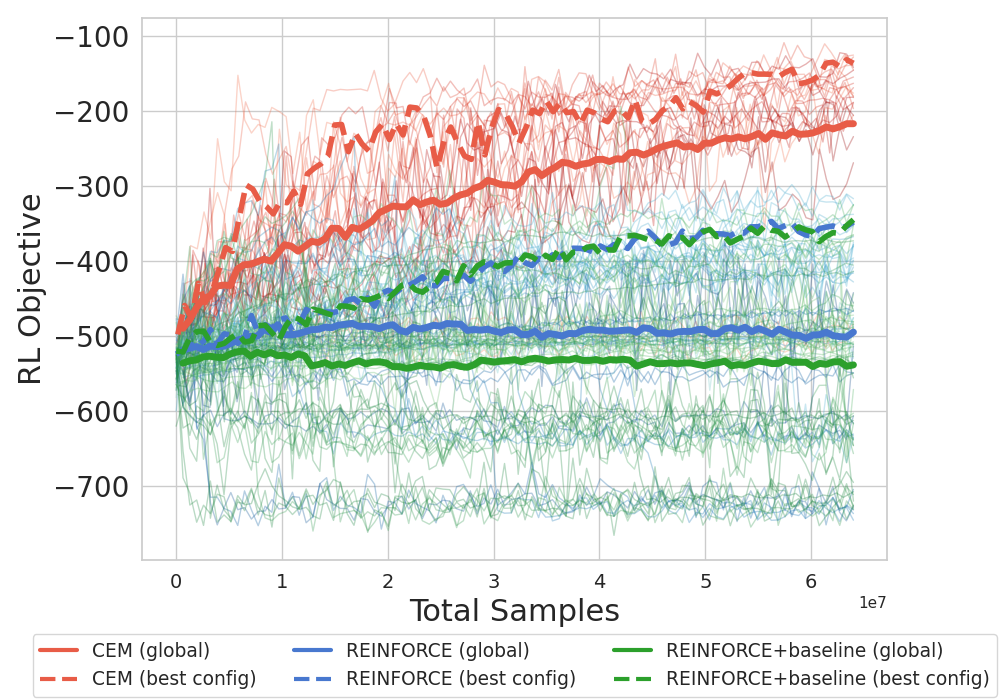
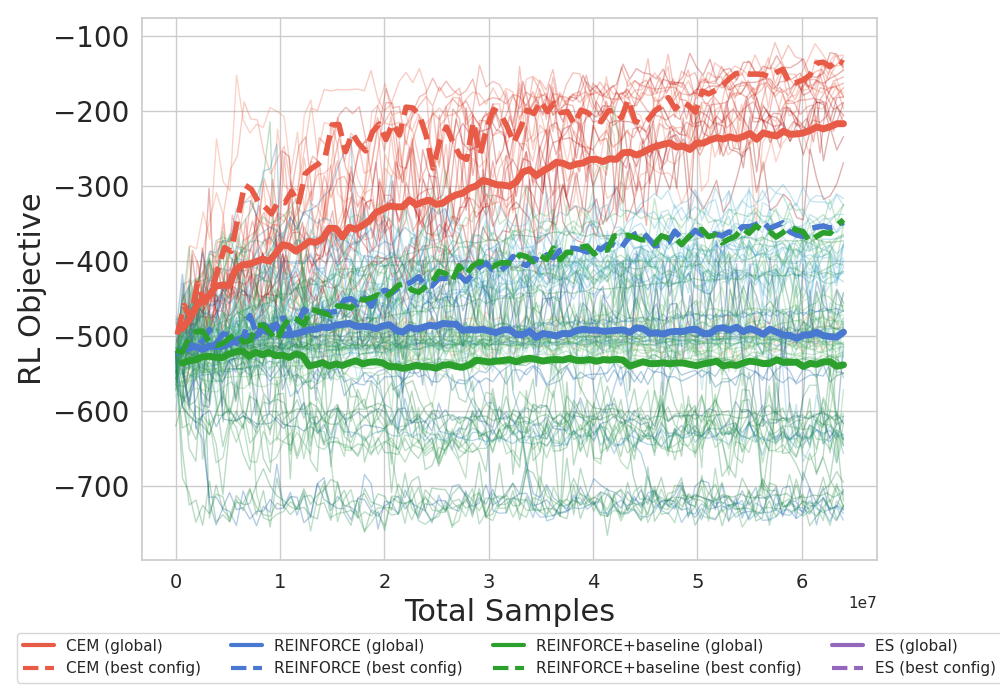
ES COMING

diff --git a/plotting_walltime.py b/plotting_walltime.py
@@ -80,6 +80,8 @@ reinforce_x_data = []
 reinforce_y_data = []
 reinforce_baseline_x_data = []
 reinforce_baseline_y_data = []
+new_baseline_x_data = []
+new_baseline_y_data = []
 
 # Store best hyperparameter configurations
 cem_best_config_x = None
@@ -93,6 +95,10 @@ reinforce_best_config_score = float('-inf')
 reinforce_baseline_best_config_x = None
 reinforce_baseline_best_config_y = None
 reinforce_baseline_best_config_score = float('-inf')
+
+new_baseline_best_config_x = None
+new_baseline_best_config_y = None
+new_baseline_best_config_score = float('-inf')
 
 # Plot CEM data
 c_idx = 0
@@ -173,6 +179,32 @@ for i, lr in enumerate([0.0001, 0.001, 0.01, 0.1]):
             reinforce_baseline_y_data.extend(y_data)
             c_idx += 1
 
+# Plot new baseline data
+c_idx = 0
+combs = np.linspace(0, 1, 4*3*4)  # Adjust based on your parameter combinations
+for i, lr in enumerate([0.0001, 0.001, 0.01, 0.1]):  # Adjust parameters as needed
+    for j, noise_std in enumerate([0.1, 1, 0.01]):  # Adjust parameters as needed
+        for k, n_pop in enumerate([8, 16, 32, 64]):  # Adjust parameters as needed
+            data_paths = [
+                f'beta_es_data_Pendulum-v1_pop{n_pop}_size16_evals50_lr{lr}_std{noise_std}_seed{seed}/training_data_iter.npy'
+                for seed in range(3)  # Adjust seed count as needed
+            ]
+            color = sns.color_palette("Purples", n_colors=len(combs)*2)[len(combs) + c_idx]
+            x_data, y_data = plot_data(data_paths, '-', color)
+            
+            # Compute mean performance for this hyperparameter configuration
+            config_x, config_y, config_score = compute_mean_performance(x_data, y_data)
+            
+            # Check if this is the best configuration
+            if config_score > new_baseline_best_config_score:
+                new_baseline_best_config_score = config_score
+                new_baseline_best_config_x = config_x
+                new_baseline_best_config_y = config_y
+            
+            new_baseline_x_data.extend(x_data)
+            new_baseline_y_data.extend(y_data)
+            c_idx += 1
+
 # Plot global trends for each algorithm
 def plot_global_trend(x_data, y_data, color, label):
     if len(x_data) > 1:
@@ -198,6 +230,7 @@ def plot_global_trend(x_data, y_data, color, label):
 plot_global_trend(cem_x_data, cem_y_data, '#e85c47', 'CEM (global)')
 plot_global_trend(reinforce_x_data, reinforce_y_data, '#4878cf', 'REINFORCE (global)')
 plot_global_trend(reinforce_baseline_x_data, reinforce_baseline_y_data, '#2ca02c', 'REINFORCE+baseline (global)')
+plot_global_trend(new_baseline_x_data, new_baseline_y_data, '#9467bd', 'ES (global)')
 
 # Plot best hyperparameter configurations for each algorithm with dotted lines
 if cem_best_config_x is not None and cem_best_config_y is not None:
@@ -209,6 +242,9 @@ if reinforce_best_config_x is not None and reinforce_best_config_y is not None:
 if reinforce_baseline_best_config_x is not None and reinforce_baseline_best_config_y is not None:
     plt.plot(reinforce_baseline_best_config_x, reinforce_baseline_best_config_y, linestyle='dashed', color='#2ca02c', linewidth=4, label='REINFORCE+baseline (best config)')
 
+if new_baseline_best_config_x is not None and new_baseline_best_config_y is not None:
+    plt.plot(new_baseline_best_config_x, new_baseline_best_config_y, linestyle='dashed', color='#9467bd', linewidth=4, label='ES (best config)')
+
 # Update legend with best configurations
 legend_elements = [
     Line2D([0], [0], color='#e85c47', lw=3, label='CEM (global)'),
@@ -216,12 +252,14 @@ legend_elements = [
     Line2D([0], [0], color='#4878cf', lw=3, label='REINFORCE (global)'),
     Line2D([0], [0], color='#4878cf', linestyle='dashed', lw=3, label='REINFORCE (best config)'),
     Line2D([0], [0], color='#2ca02c', lw=3, label='REINFORCE+baseline (global)'),
-    Line2D([0], [0], color='#2ca02c', linestyle='dashed', lw=3, label='REINFORCE+baseline (best config)')
+    Line2D([0], [0], color='#2ca02c', linestyle='dashed', lw=3, label='REINFORCE+baseline (best config)'),
+    Line2D([0], [0], color='#9467bd', lw=3, label='ES (global)'),
+    Line2D([0], [0], color='#9467bd', linestyle='dashed', lw=3, label='ES (best config)')
 ]
-plt.legend(handles=legend_elements, fontsize=13.4, loc='upper center', bbox_to_anchor=(0.5, -0.12), ncol=3)
+plt.legend(handles=legend_elements, fontsize=11, loc='upper center', bbox_to_anchor=(0.5, -0.12), ncol=4)
 
 # Increase font sizes for better readability
-plt.xlabel("Total Samples", fontsize=22)
+plt.xlabel("Wall time (s)", fontsize=22)
 plt.ylabel("RL Objective", fontsize=22)
 
 # Increase tick label sizes

diff --git a/plotting.py b/plotting.py
@@ -80,6 +80,8 @@ reinforce_x_data = []
 reinforce_y_data = []
 reinforce_baseline_x_data = []
 reinforce_baseline_y_data = []
+new_baseline_x_data = []
+new_baseline_y_data = []
 
 # Store best hyperparameter configurations
 cem_best_config_x = None
@@ -93,6 +95,10 @@ reinforce_best_config_score = float('-inf')
 reinforce_baseline_best_config_x = None
 reinforce_baseline_best_config_y = None
 reinforce_baseline_best_config_score = float('-inf')
+
+new_baseline_best_config_x = None
+new_baseline_best_config_y = None
+new_baseline_best_config_score = float('-inf')
 
 # Plot CEM data
 c_idx = 0
@@ -173,6 +179,32 @@ for i, lr in enumerate([0.0001, 0.001, 0.01, 0.1]):
             reinforce_baseline_y_data.extend(y_data)
             c_idx += 1
 
+# Plot new baseline data
+c_idx = 0
+combs = np.linspace(0, 1, 4*3*4)  # Adjust based on your parameter combinations
+for i, lr in enumerate([0.0001, 0.001, 0.01, 0.1]):  # Adjust parameters as needed
+    for j, noise_std in enumerate([0.1, 1, 0.01]):  # Adjust parameters as needed
+        for k, n_pop in enumerate([8, 16, 32, 64]):  # Adjust parameters as needed
+            data_paths = [
+                f'beta_es_data_Pendulum-v1_pop{n_pop}_size16_evals50_lr{lr}_std{noise_std}_seed{seed}/training_data_iter.npy'
+                for seed in range(3)  # Adjust seed count as needed
+            ]
+            color = sns.color_palette("Purples", n_colors=len(combs)*2)[len(combs) + c_idx]
+            x_data, y_data = plot_data(data_paths, '-', color)
+            
+            # Compute mean performance for this hyperparameter configuration
+            config_x, config_y, config_score = compute_mean_performance(x_data, y_data)
+            
+            # Check if this is the best configuration
+            if config_score > new_baseline_best_config_score:
+                new_baseline_best_config_score = config_score
+                new_baseline_best_config_x = config_x
+                new_baseline_best_config_y = config_y
+            
+            new_baseline_x_data.extend(x_data)
+            new_baseline_y_data.extend(y_data)
+            c_idx += 1
+
 # Plot global trends for each algorithm
 def plot_global_trend(x_data, y_data, color, label):
     if len(x_data) > 1:
@@ -198,6 +230,7 @@ def plot_global_trend(x_data, y_data, color, label):
 plot_global_trend(cem_x_data, cem_y_data, '#e85c47', 'CEM (global)')
 plot_global_trend(reinforce_x_data, reinforce_y_data, '#4878cf', 'REINFORCE (global)')
 plot_global_trend(reinforce_baseline_x_data, reinforce_baseline_y_data, '#2ca02c', 'REINFORCE+baseline (global)')
+plot_global_trend(new_baseline_x_data, new_baseline_y_data, '#9467bd', 'ES (global)')
 
 # Plot best hyperparameter configurations for each algorithm with dotted lines
 if cem_best_config_x is not None and cem_best_config_y is not None:
@@ -209,6 +242,9 @@ if reinforce_best_config_x is not None and reinforce_best_config_y is not None:
 if reinforce_baseline_best_config_x is not None and reinforce_baseline_best_config_y is not None:
     plt.plot(reinforce_baseline_best_config_x, reinforce_baseline_best_config_y, linestyle='dashed', color='#2ca02c', linewidth=4, label='REINFORCE+baseline (best config)')
 
+if new_baseline_best_config_x is not None and new_baseline_best_config_y is not None:
+    plt.plot(new_baseline_best_config_x, new_baseline_best_config_y, linestyle='dashed', color='#9467bd', linewidth=4, label='ES (best config)')
+
 # Update legend with best configurations
 legend_elements = [
     Line2D([0], [0], color='#e85c47', lw=3, label='CEM (global)'),
@@ -216,9 +252,11 @@ legend_elements = [
     Line2D([0], [0], color='#4878cf', lw=3, label='REINFORCE (global)'),
     Line2D([0], [0], color='#4878cf', linestyle='dashed', lw=3, label='REINFORCE (best config)'),
     Line2D([0], [0], color='#2ca02c', lw=3, label='REINFORCE+baseline (global)'),
-    Line2D([0], [0], color='#2ca02c', linestyle='dashed', lw=3, label='REINFORCE+baseline (best config)')
+    Line2D([0], [0], color='#2ca02c', linestyle='dashed', lw=3, label='REINFORCE+baseline (best config)'),
+    Line2D([0], [0], color='#9467bd', lw=3, label='ES (global)'),
+    Line2D([0], [0], color='#9467bd', linestyle='dashed', lw=3, label='ES (best config)')
 ]
-plt.legend(handles=legend_elements, fontsize=13.4, loc='upper center', bbox_to_anchor=(0.5, -0.12), ncol=3)
+plt.legend(handles=legend_elements, fontsize=11, loc='upper center', bbox_to_anchor=(0.5, -0.12), ncol=4)
 
 # Increase font sizes for better readability
 plt.xlabel("Total Samples", fontsize=22)
